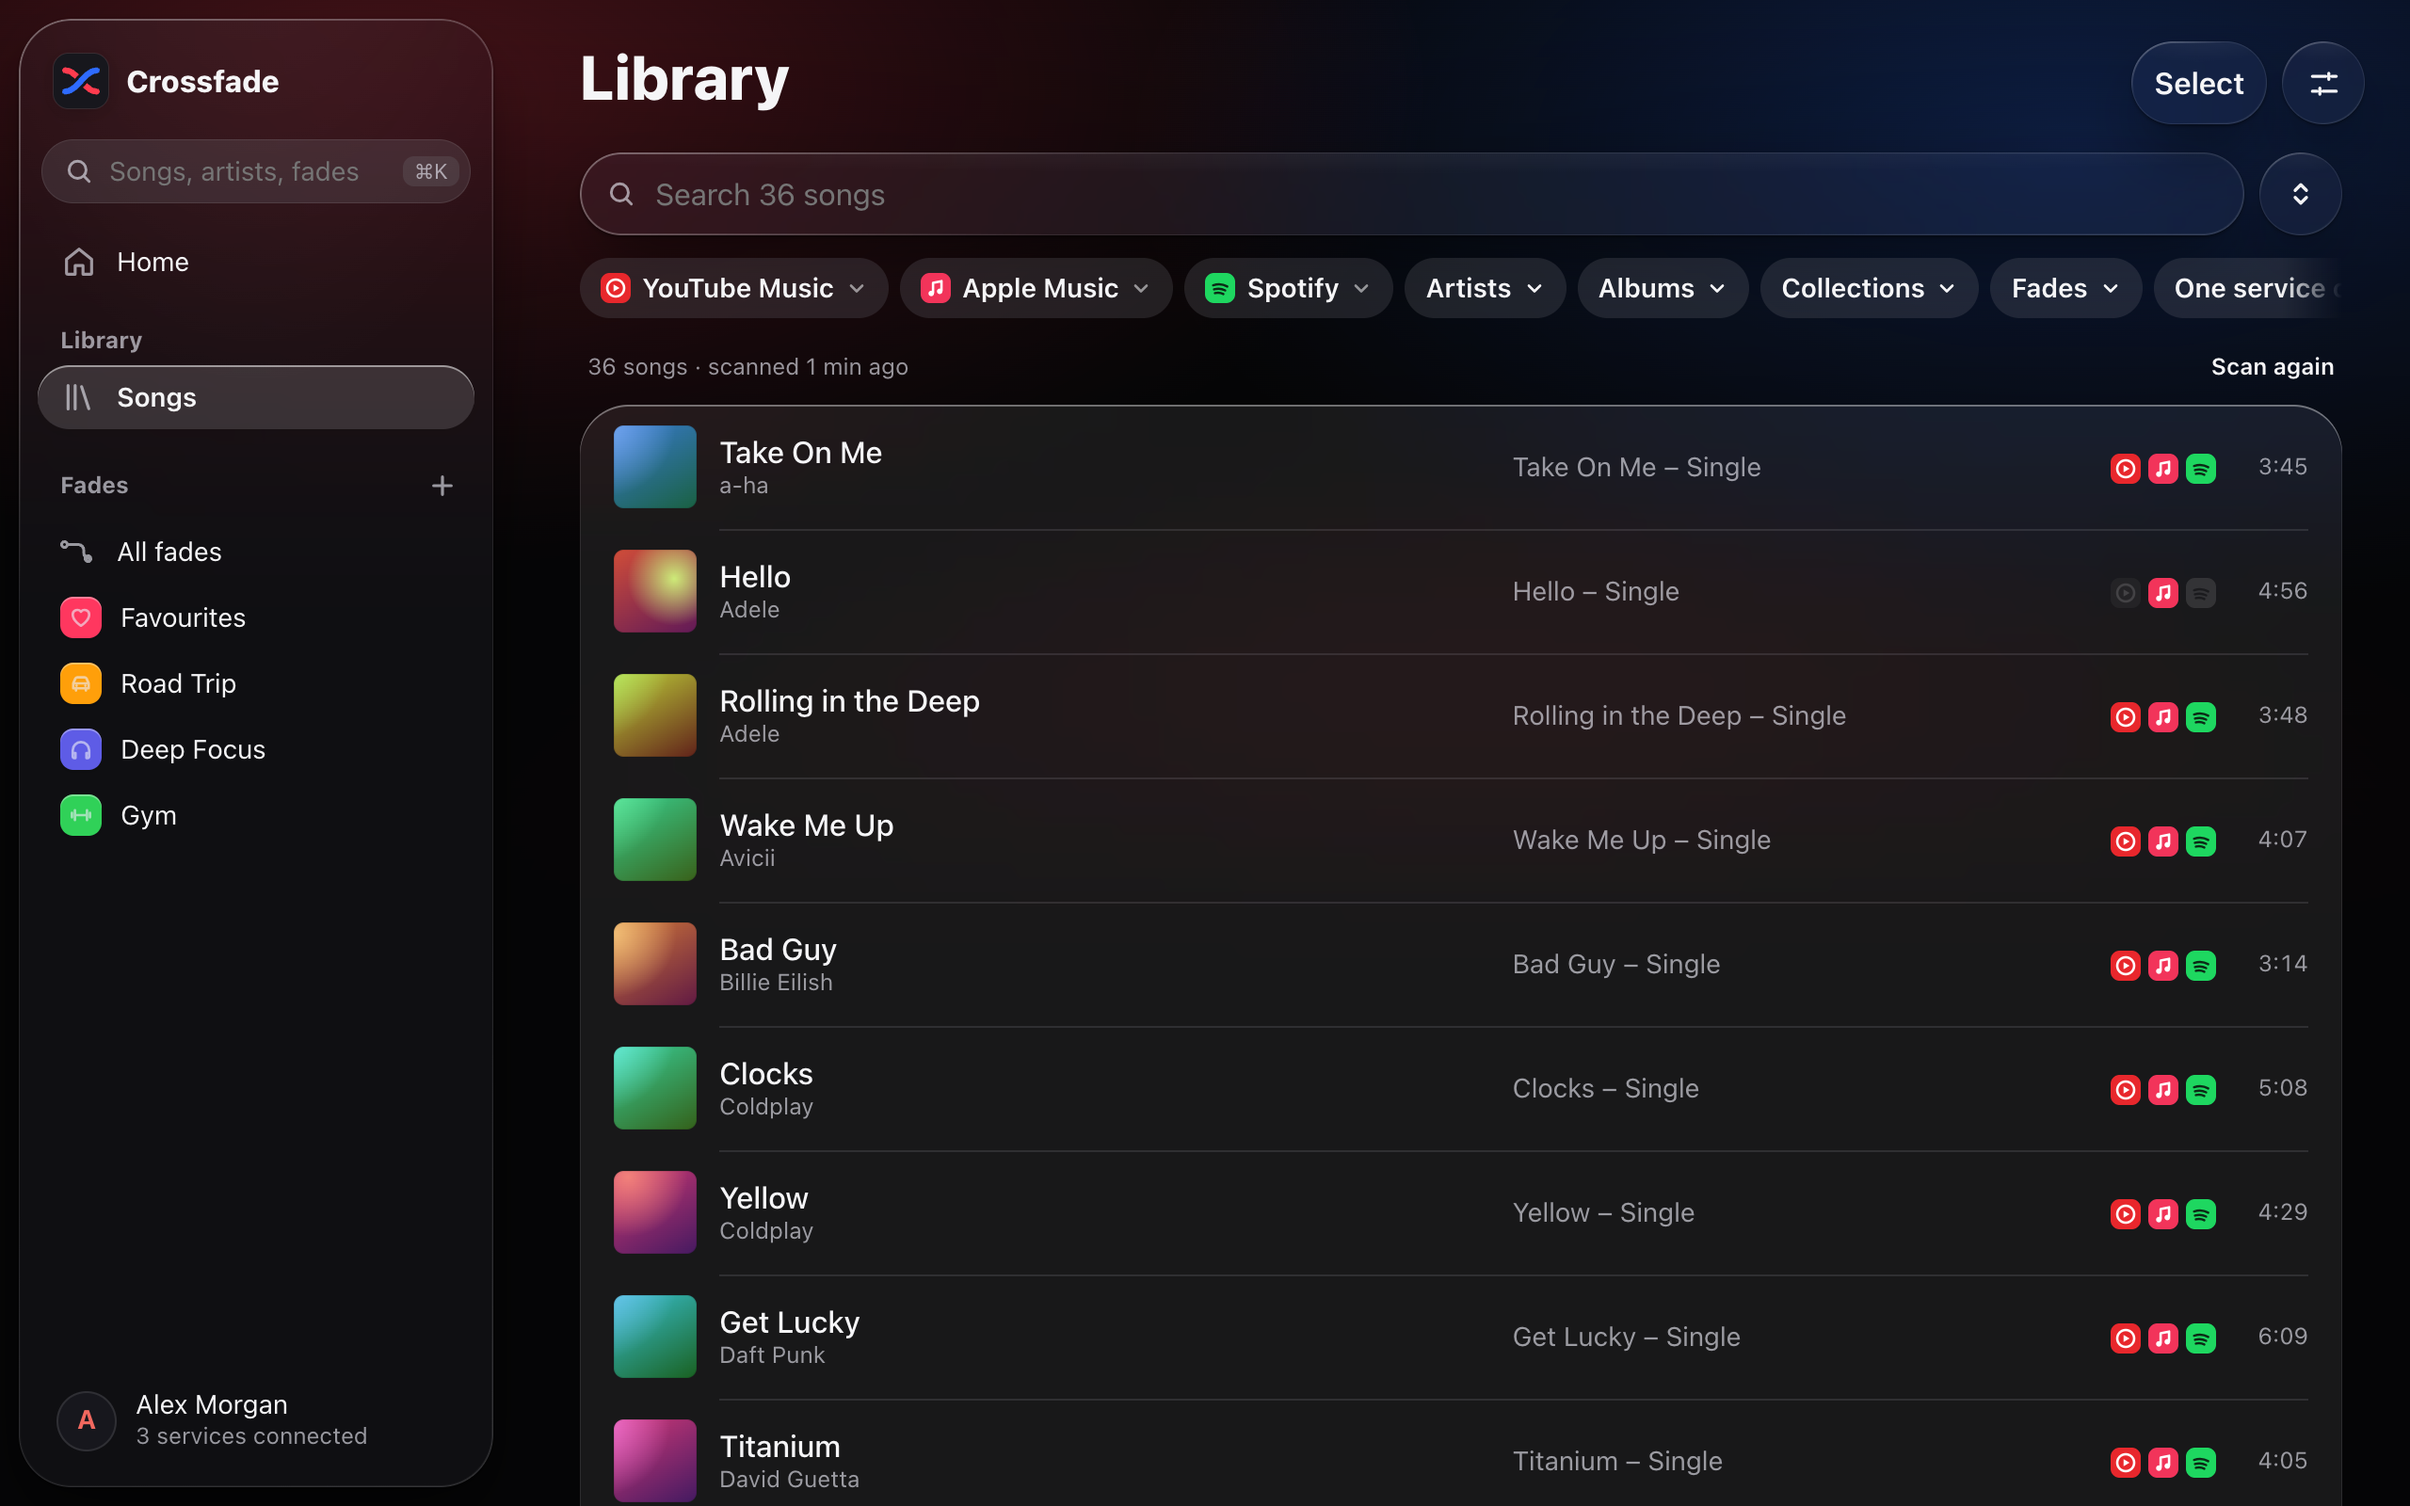
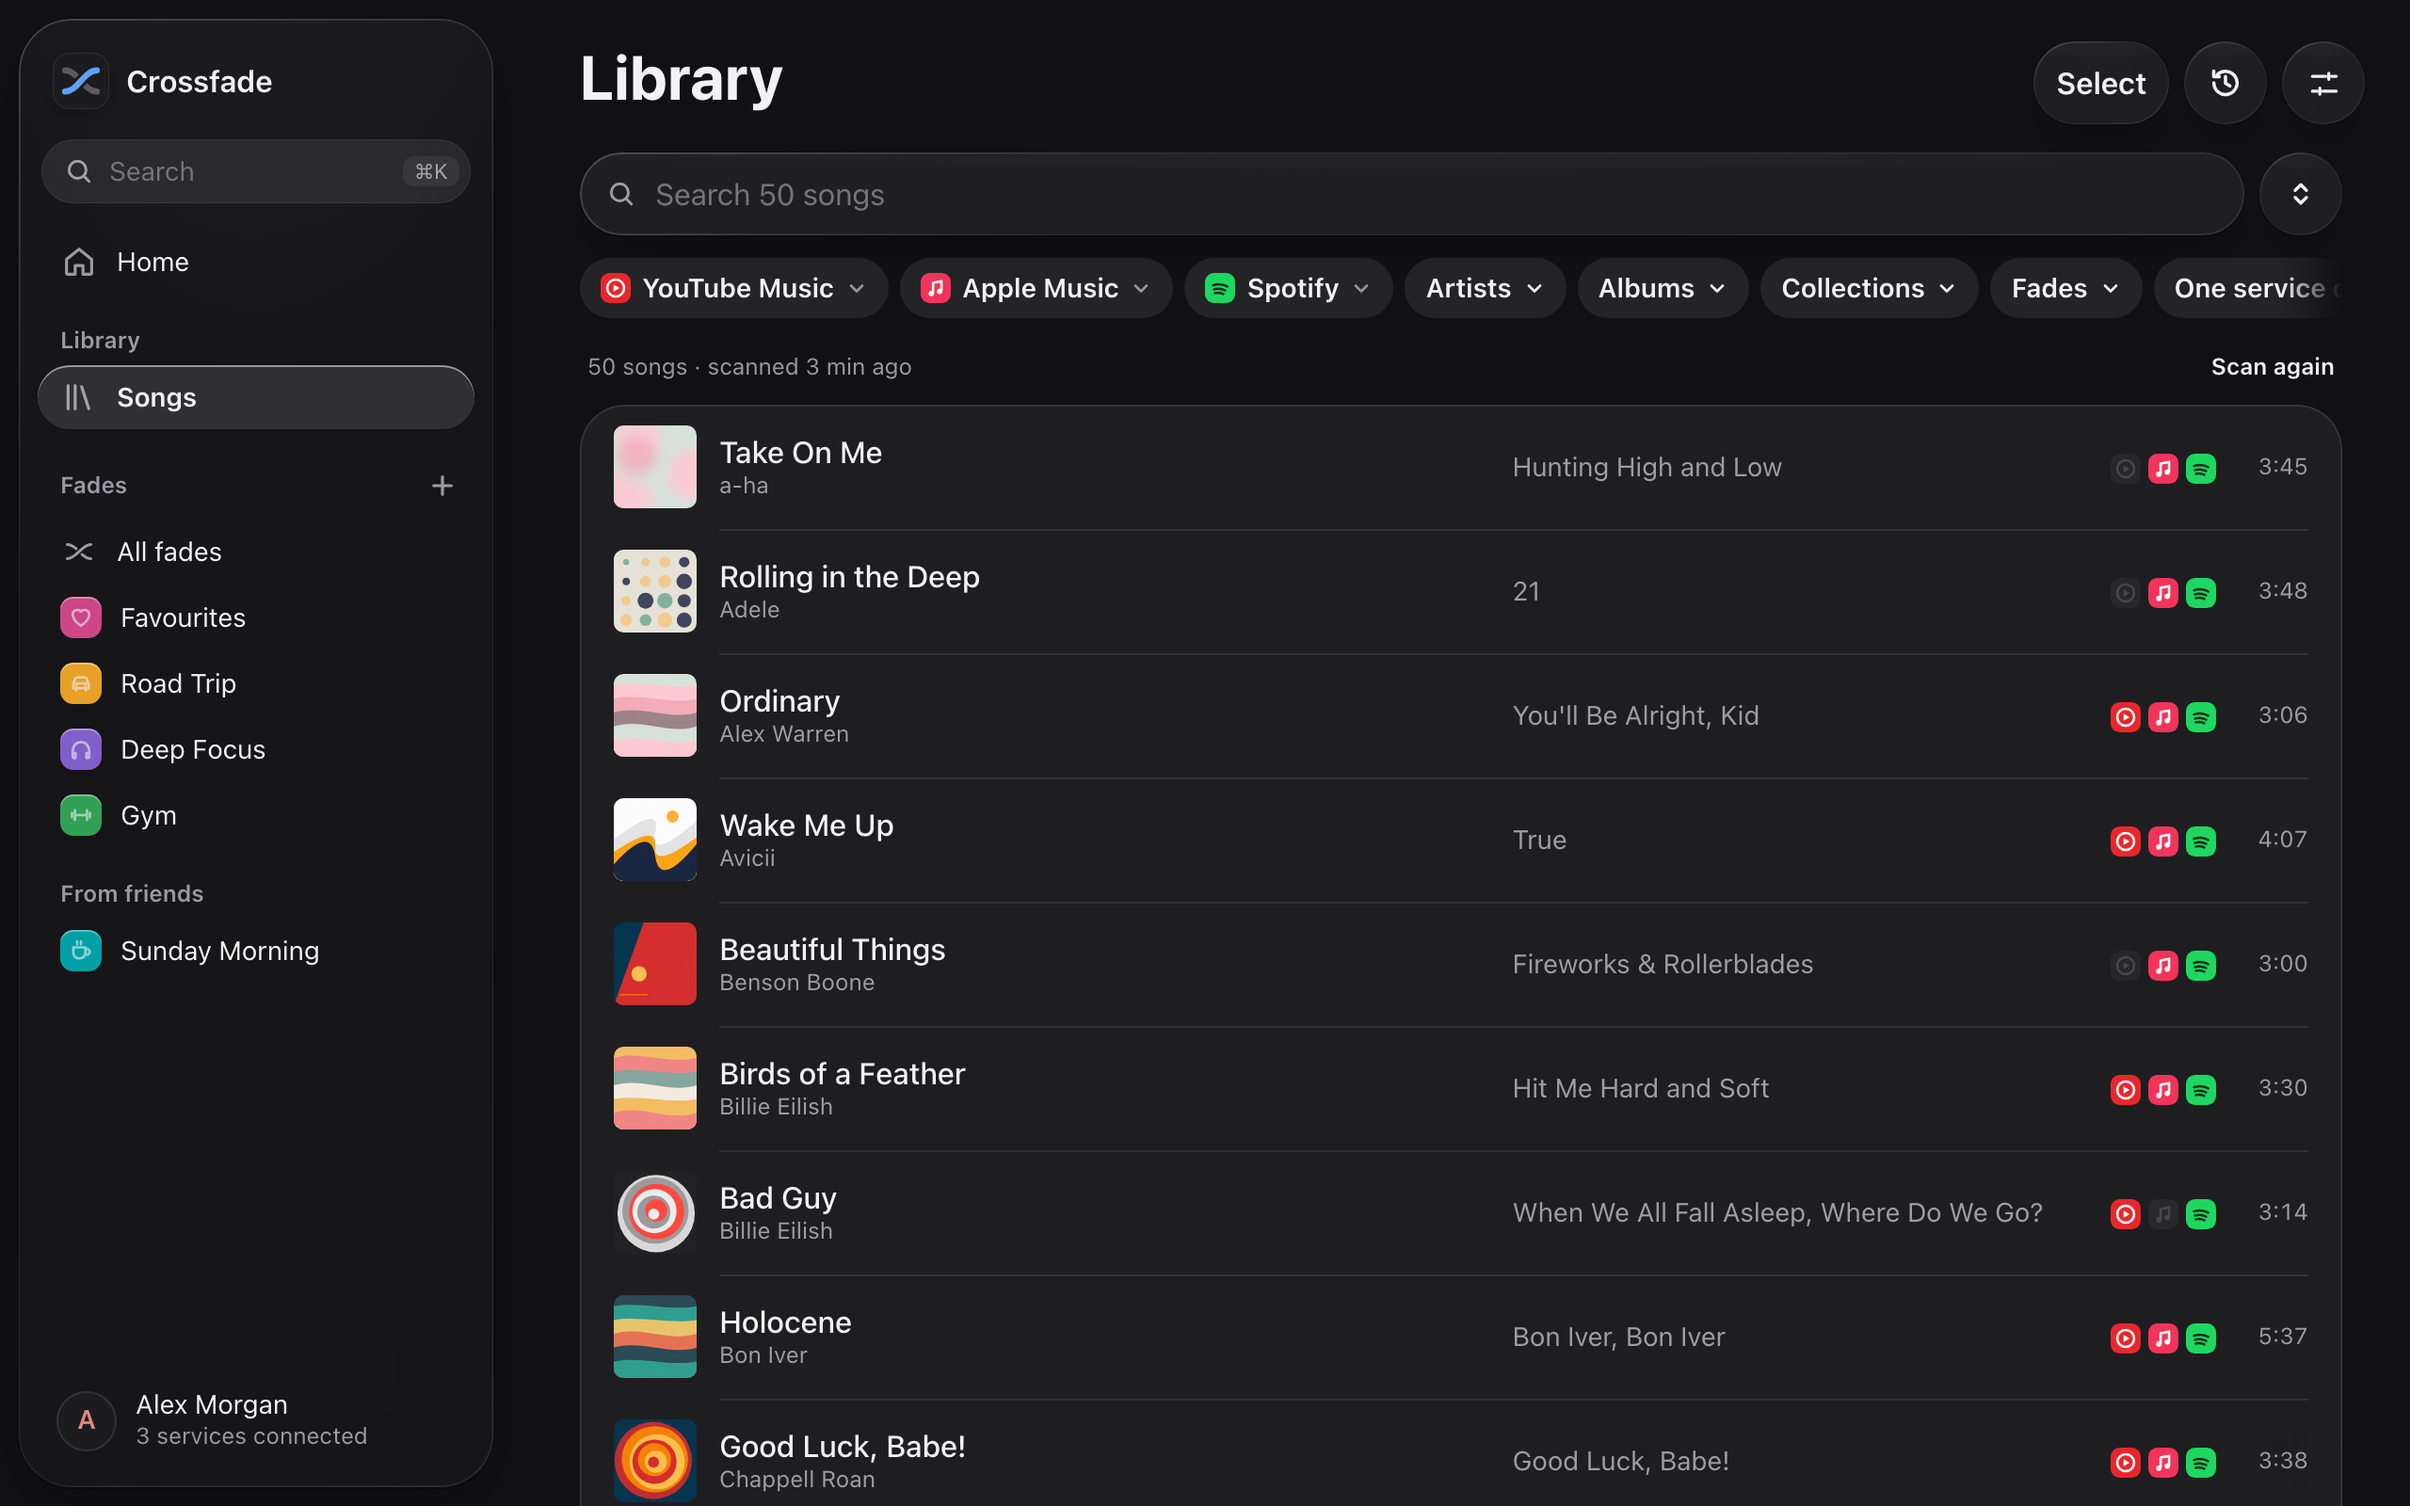
Refresh README screenshots and document signing in as a user
New screenshots in the current look (neutral surfaces, date as title, clear
fade colours), made with made-up people and generated covers on a throwaway
database: home, a fade and the library on the desktop, and a phone row with
home, a fade shared with a friend and the library. Phone shots are 2x now,
which roughly halves the image weight.

Both READMEs describe "Sign in as this person" for admins, list more of the
modules in the development table and mention CROSSFADE_BACKUP_ON_START. The
install guide points to it after the installation, and the Unraid template
carries screenshots.

diff --git a/README.de.md b/README.de.md
@@ -15,12 +15,16 @@ Mehrere Personen teilen sich eine Instanz, jede mit eigenen Diensten und Fades. 
 <p align="center"><a href="https://buymeacoffee.com/tg099"><img src="https://cdn.buymeacoffee.com/buttons/v2/default-yellow.png" alt="Buy me a coffee" height="48"></a></p>
 
 <p align="center">
-  <img src="docs/screenshots/desktop-light.png" alt="Übersicht: deine Fades, neue Songs der Woche und was gerade dazugekommen ist" width="100%">
+  <img src="docs/screenshots/desktop-light.png" alt="Übersicht: deine Fades, neue Songs der Woche, was gerade dazugekommen ist und was Freunde beigesteuert haben" width="100%">
 </p>
 
-| Ein Fade | Deine Mediathek | Auf dem Telefon |
+| Ein Fade | Deine Mediathek |
+|---|---|
+| ![Ein Fade mit Sammlungen bei drei Diensten und Statistik, dunkel](docs/screenshots/desktop-dark.png) | ![Alle Songs aller Dienste in einer Liste, mit Filtern nach Dienst, Interpret, Album und Fade](docs/screenshots/library-dark.png) |
+
+| Auf dem Telefon | Mit einem Freund geteilt | Mediathek unterwegs |
 |---|---|---|
-| ![Ein Fade mit Sammlungen und Statistik, dunkel](docs/screenshots/desktop-dark.png) | ![Alle Songs aller Dienste in einer Liste](docs/screenshots/library-dark.png) | ![Übersicht auf dem Telefon](docs/screenshots/phone-light.png) |
+| ![Übersicht auf dem Telefon](docs/screenshots/phone-light.png) | ![Ein mit einem Freund geteilter Fade auf dem Telefon, dunkel](docs/screenshots/phone-fade-dark.png) | ![Die Mediathek auf dem Telefon](docs/screenshots/phone-library-light.png) |
 
 ## Begriffe
 
@@ -197,6 +201,11 @@ Jeder Fade merkt sich, welche Songs er kennt und wo er sie zuletzt gesehen hat.
   `CROSSFADE_UPDATE_CHECK=false` schaltet es ab.
 - **Erste Schritte:** Neue Nutzer bekommen auf der Übersicht eine Checkliste (Dienste verbinden, erster Fade, erster
   Sync, Benachrichtigungen), bis alles eingerichtet ist oder sie sie ausblenden.
+- **Für jemanden einrichten** (nur Admins, **Konto → Nutzer** → eine Person → **Als diese Person anmelden**): Der
+  Admin sieht Crossfade so wie diese Person und kann für sie Dienste verbinden, Fades bauen und Einstellungen
+  ändern. Der Besuch endet nach zwei Stunden von selbst, ein Banner oben bringt den Admin mit einem Tipp zurück.
+  Passwort und KI-Assistenten der Person sowie die Admin-Seiten bleiben dabei gesperrt, und bei anderen Admins
+  geht es nicht.
 
 ## Sicherheit
 
@@ -229,14 +238,22 @@ Bitte Syncs nicht gegen deine echten Konten testen: nimm ein eigenes `CROSSFADE_
 | `crossfade/matcher.py` | Abgleich nach Titel, Interpret, Dauer, ISRC |
 | `crossfade/providers/` | Ein Modul pro [unterstütztem Dienst](#unterstützte-dienste) |
 | `crossfade/worker.py` | Zeitplan, Hintergrund-Syncs, Live-Fortschritt |
+| `crossfade/catalog.py` | Die Mediathek: alle Songs aller Dienste, Hinzufügen und Entfernen in einem Rutsch |
+| `crossfade/sorting.py` | Regeln, die Songs im Fade in Playlists einsortieren |
+| `crossfade/sharing.py` | Freunde und geteilte Fades, wer was sehen darf |
+| `crossfade/history.py` | Zeitreise: Stände der Sammlungen und Wiederherstellen |
+| `crossfade/mcp_server.py` | MCP-Server für KI-Assistenten |
 | `crossfade/api/` | HTTP-API, Anmeldung, Nutzerverwaltung |
 | `web/` | Oberfläche (SvelteKit, statisch gebaut) |
 
 Umgebungsvariablen: siehe `.env.example`. Zusätzlich `CROSSFADE_DATA_DIR`, `CROSSFADE_BASE_URL`,
-`CROSSFADE_WEB_DIR` und `CROSSFADE_SECURE_COOKIES`.
+`CROSSFADE_WEB_DIR`, `CROSSFADE_SECURE_COOKIES` und `CROSSFADE_BACKUP_ON_START`.
 
 Die Oberfläche nutzt ein Liquid-Glass-Design für Telefon und Desktop, mit Hell/Dunkel/System und Deutsch und Englisch
 (Texte in `web/src/lib/ui/lang/`, beide Dateien haben dieselben Schlüssel).
+
+Die Screenshots in `docs/screenshots/` zeigen ausgedachte Personen und generierte Cover auf einer Wegwerf-Datenbank,
+nie echte Konten.
 
 ### Releases
 

diff --git a/README.md b/README.md
@@ -15,12 +15,16 @@ Several people share one instance, each with their own services and fades. Only 
 <p align="center"><a href="https://buymeacoffee.com/tg099"><img src="https://cdn.buymeacoffee.com/buttons/v2/default-yellow.png" alt="Buy me a coffee" height="48"></a></p>
 
 <p align="center">
-  <img src="docs/screenshots/desktop-light.png" alt="Home: your fades, this week's new songs and what was just added" width="100%">
+  <img src="docs/screenshots/desktop-light.png" alt="Home: your fades, this week's new songs, what was just added and how much friends brought in" width="100%">
 </p>
 
-| A fade | Your library | On the phone |
+| A fade | Your library |
+|---|---|
+| ![A fade with its collections across three services and its stats, dark mode](docs/screenshots/desktop-dark.png) | ![All songs across services in one list, with filters per service, artist, album and fade](docs/screenshots/library-dark.png) |
+
+| On the phone | Shared with a friend | Library on the go |
 |---|---|---|
-| ![A fade with its collections and stats, dark mode](docs/screenshots/desktop-dark.png) | ![All songs across services in one list](docs/screenshots/library-dark.png) | ![Home on a phone](docs/screenshots/phone-light.png) |
+| ![Home on a phone](docs/screenshots/phone-light.png) | ![A fade shared with a friend on a phone, dark mode](docs/screenshots/phone-fade-dark.png) | ![The library on a phone](docs/screenshots/phone-library-light.png) |
 
 ## Concepts
 
@@ -191,6 +195,11 @@ Each fade remembers which songs it knows and where it last saw them.
   home page and under **Account**. Development builds never look; `CROSSFADE_UPDATE_CHECK=false` turns it off.
 - **First steps:** new users get a checklist on the home page (connect services, first fade, first sync,
   notifications) until everything is set up or they hide it.
+- **Setting things up for someone** (admins only, **Account → Users** → a person → **Sign in as this person**): an
+  admin sees Crossfade the way that person does and can connect services, build fades and change settings for
+  them. The visit ends by itself after two hours, and a banner at the top brings the admin back with one tap.
+  The person's password, AI assistants and the admin pages stay off limits meanwhile, and admins can't sign in as
+  other admins.
 
 ## Security
 
@@ -223,14 +232,22 @@ Please don't test syncs against your real accounts: use a scratch `CROSSFADE_DAT
 | `crossfade/matcher.py` | Matching by title, artist, duration, ISRC |
 | `crossfade/providers/` | One module per [supported service](#supported-services) |
 | `crossfade/worker.py` | Schedule, background syncs, live progress |
+| `crossfade/catalog.py` | The library: every song across services, bulk add and remove |
+| `crossfade/sorting.py` | Rules that sort songs into playlists inside a fade |
+| `crossfade/sharing.py` | Friends and shared fades, who may see what |
+| `crossfade/history.py` | Time travel: snapshots of collections and restoring them |
+| `crossfade/mcp_server.py` | MCP server for AI assistants |
 | `crossfade/api/` | HTTP API, sign-in, user management |
 | `web/` | UI (SvelteKit, static build) |
 
 Environment variables: see `.env.example`. Additionally `CROSSFADE_DATA_DIR`, `CROSSFADE_BASE_URL`,
-`CROSSFADE_WEB_DIR` and `CROSSFADE_SECURE_COOKIES`.
+`CROSSFADE_WEB_DIR`, `CROSSFADE_SECURE_COOKIES` and `CROSSFADE_BACKUP_ON_START`.
 
 The UI uses a Liquid Glass design for phone and desktop, with light/dark/system themes and German and English
 (texts in `web/src/lib/ui/lang/`, both files share the same keys).
+
+The screenshots in `docs/screenshots/` show made-up people and generated covers on a throwaway database, never real
+accounts.
 
 ### Releasing
 

diff --git a/docs/install.md b/docs/install.md
@@ -117,7 +117,8 @@ stays in the `crossfade-data` volume.
 ## After the installation
 
 1. Sign in as admin. Under **Account → Users** you create accounts for the other people; they get a start password
-   and choose their own at the first sign-in.
+   and choose their own at the first sign-in. To set things up for someone, open them there and pick
+   **Sign in as this person** (ends by itself after two hours).
 2. Each person connects their own services under **Account → Services**. Some services need a one-time step by the
    admin first: see [Setting up the services](../README.md#setting-up-the-services).
 3. Create your first fade and start with the **preview**: it shows what a sync would do without changing anything.
